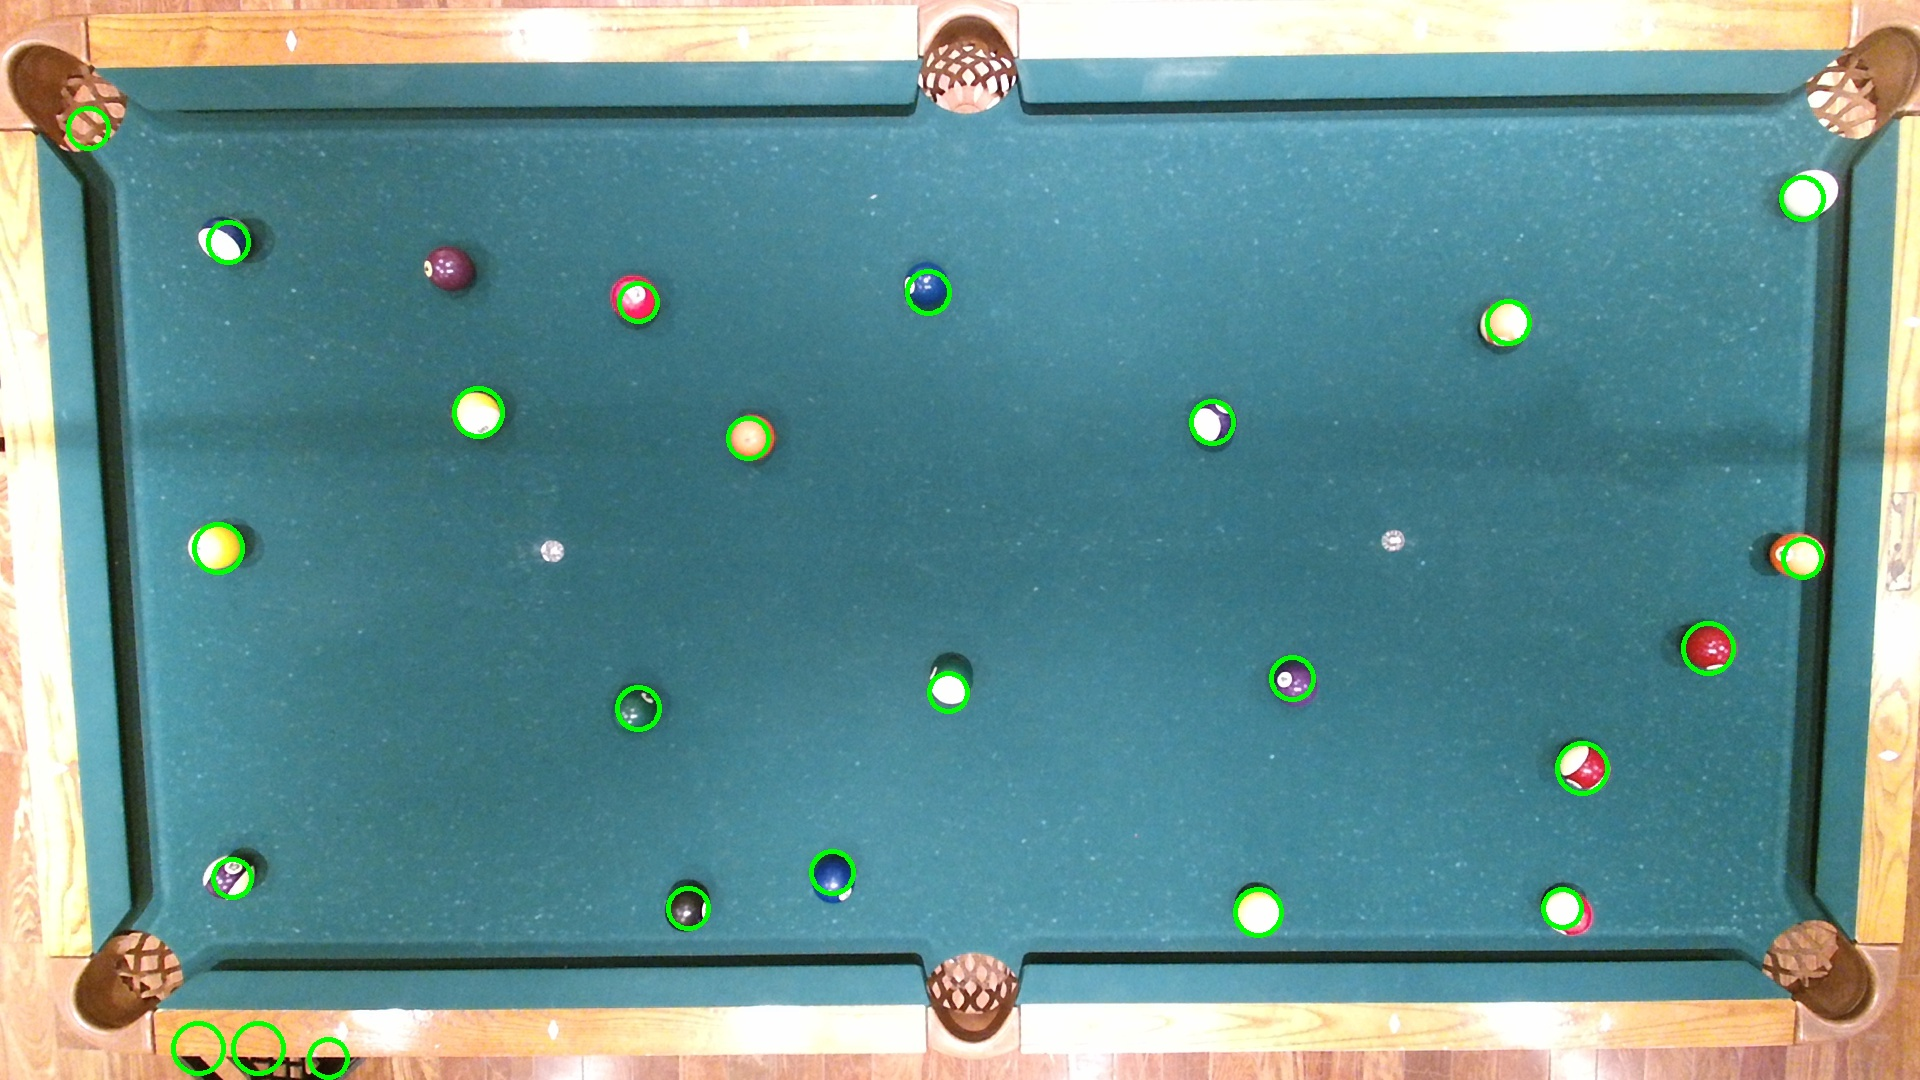
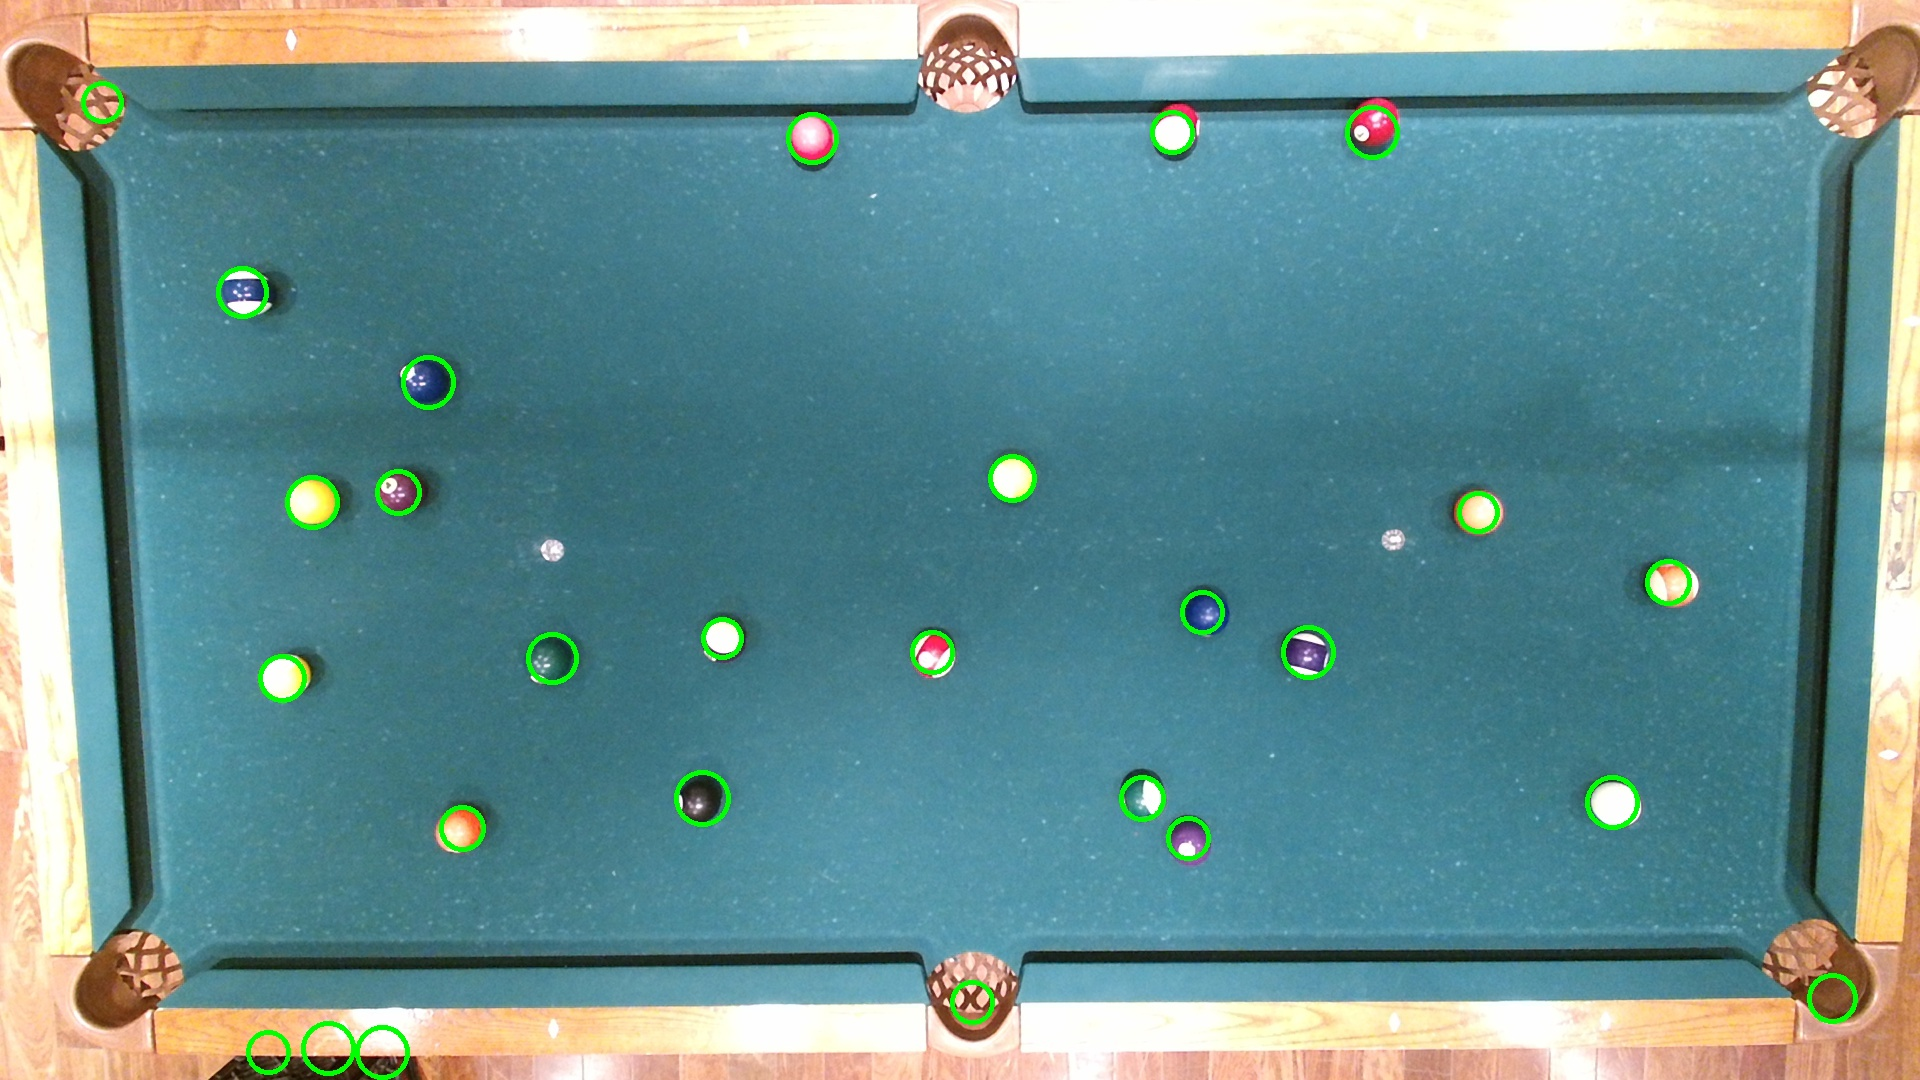
new data

diff --git a/masked_background.py b/masked_background.py
@@ -171,7 +171,12 @@ def visualize(background, shifted_coords, ctl, cbr):
 	print(shifted_coords)
 
 	for (nx, ny, nr) in shifted_coords:
-		x=int(nx*l)
+		nx=float(nx)
+		ny=float(ny)
+		nr=float(nr)
+		x=nx*l
+
+		x=int(x)
 		y=int(ny*w)
 		r=int(nr*rad)
 		cv2.circle(background, (x, y), r, (0, 255, 0), 4)
@@ -185,7 +190,7 @@ def main():
 
 	background_file_name = 'Background_Color.jpg'
 	background = cv2.imread(background_file_name)
-	file_name = 'StableOutput_Color4.jpg'
+	file_name = 'StableOutput_Color3.jpg'
 	(frame, masked_frame, balls) = detect_balls(background_file_name, file_name)
 	
 
